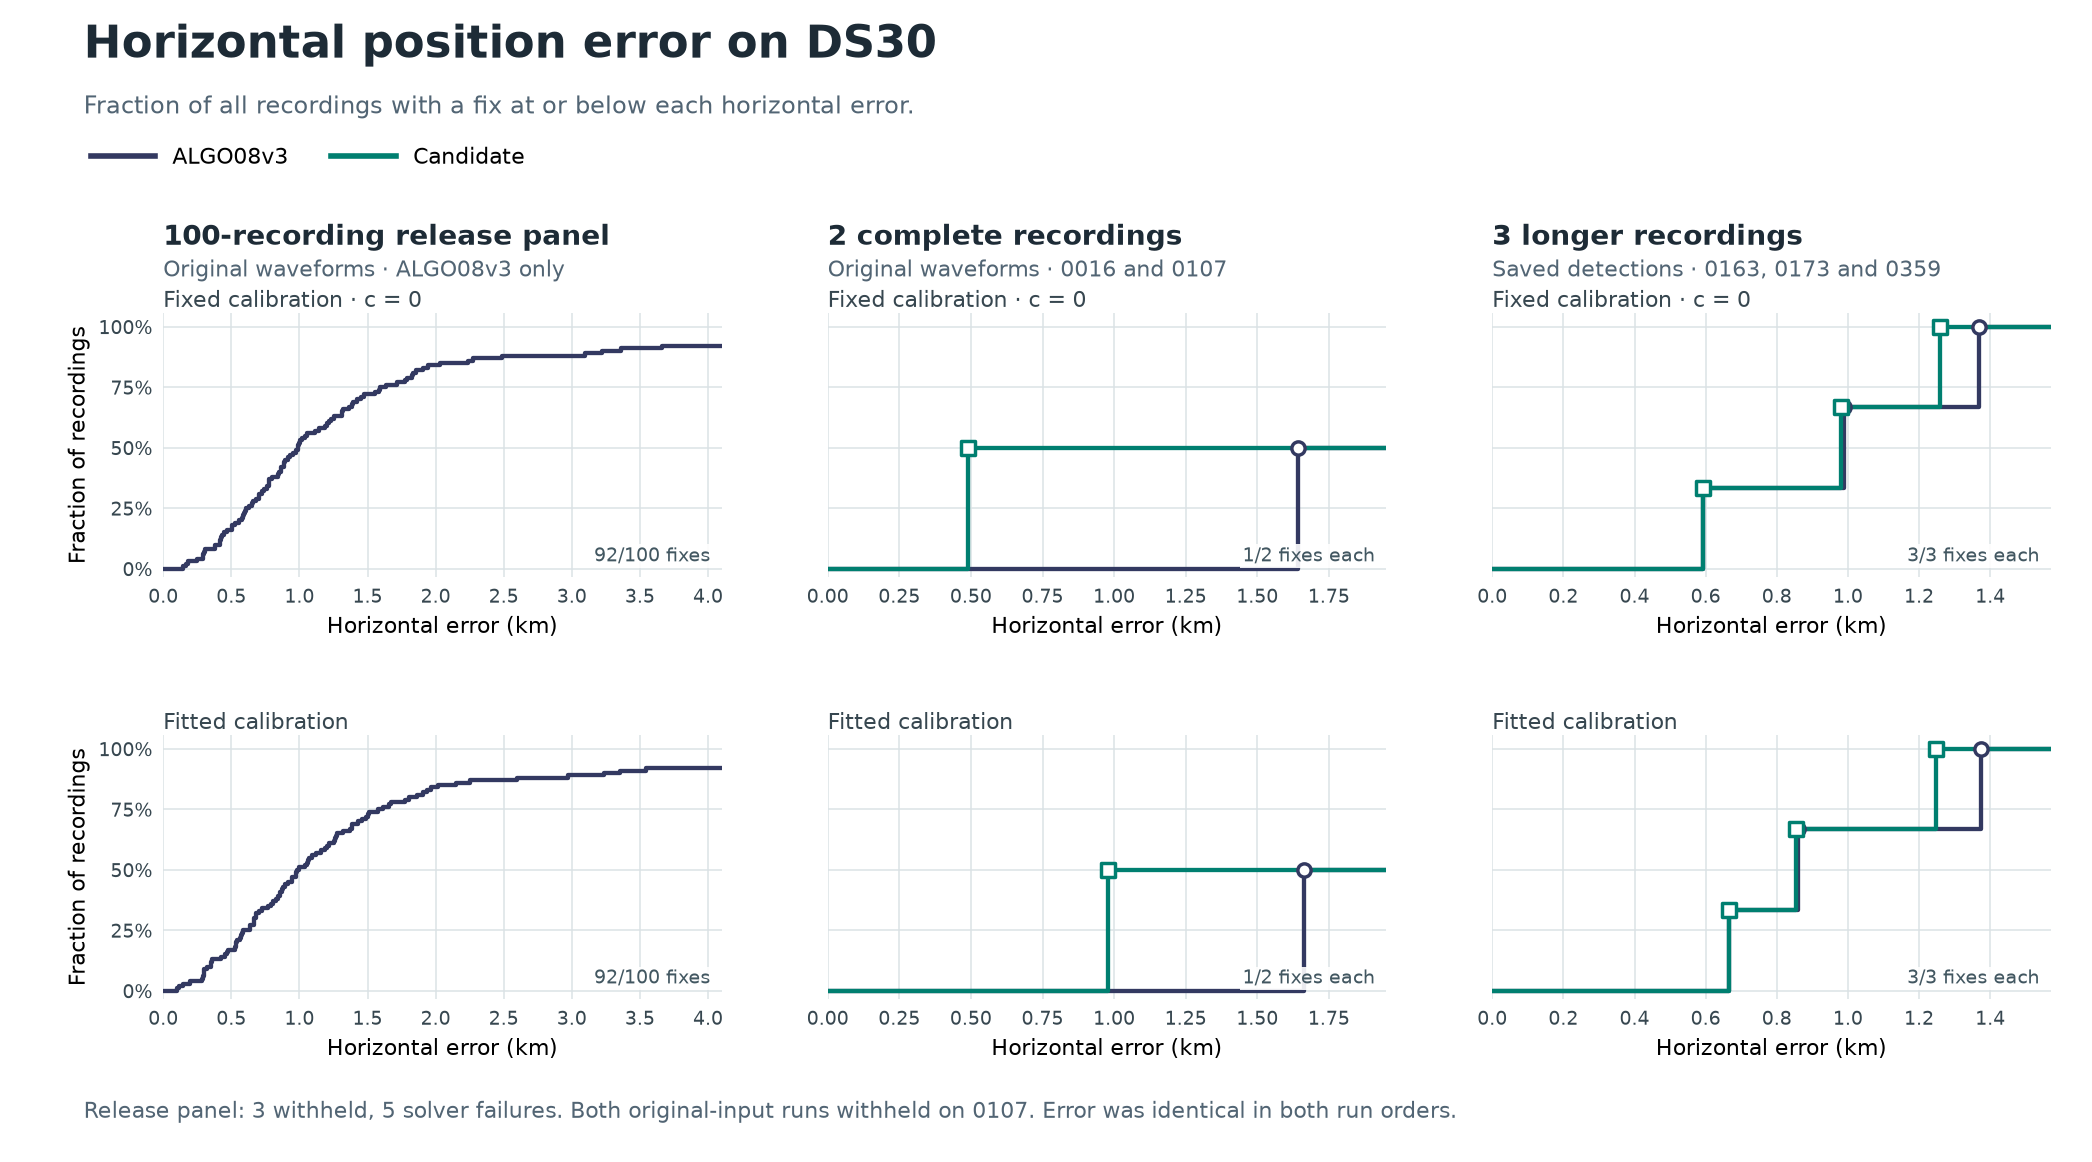
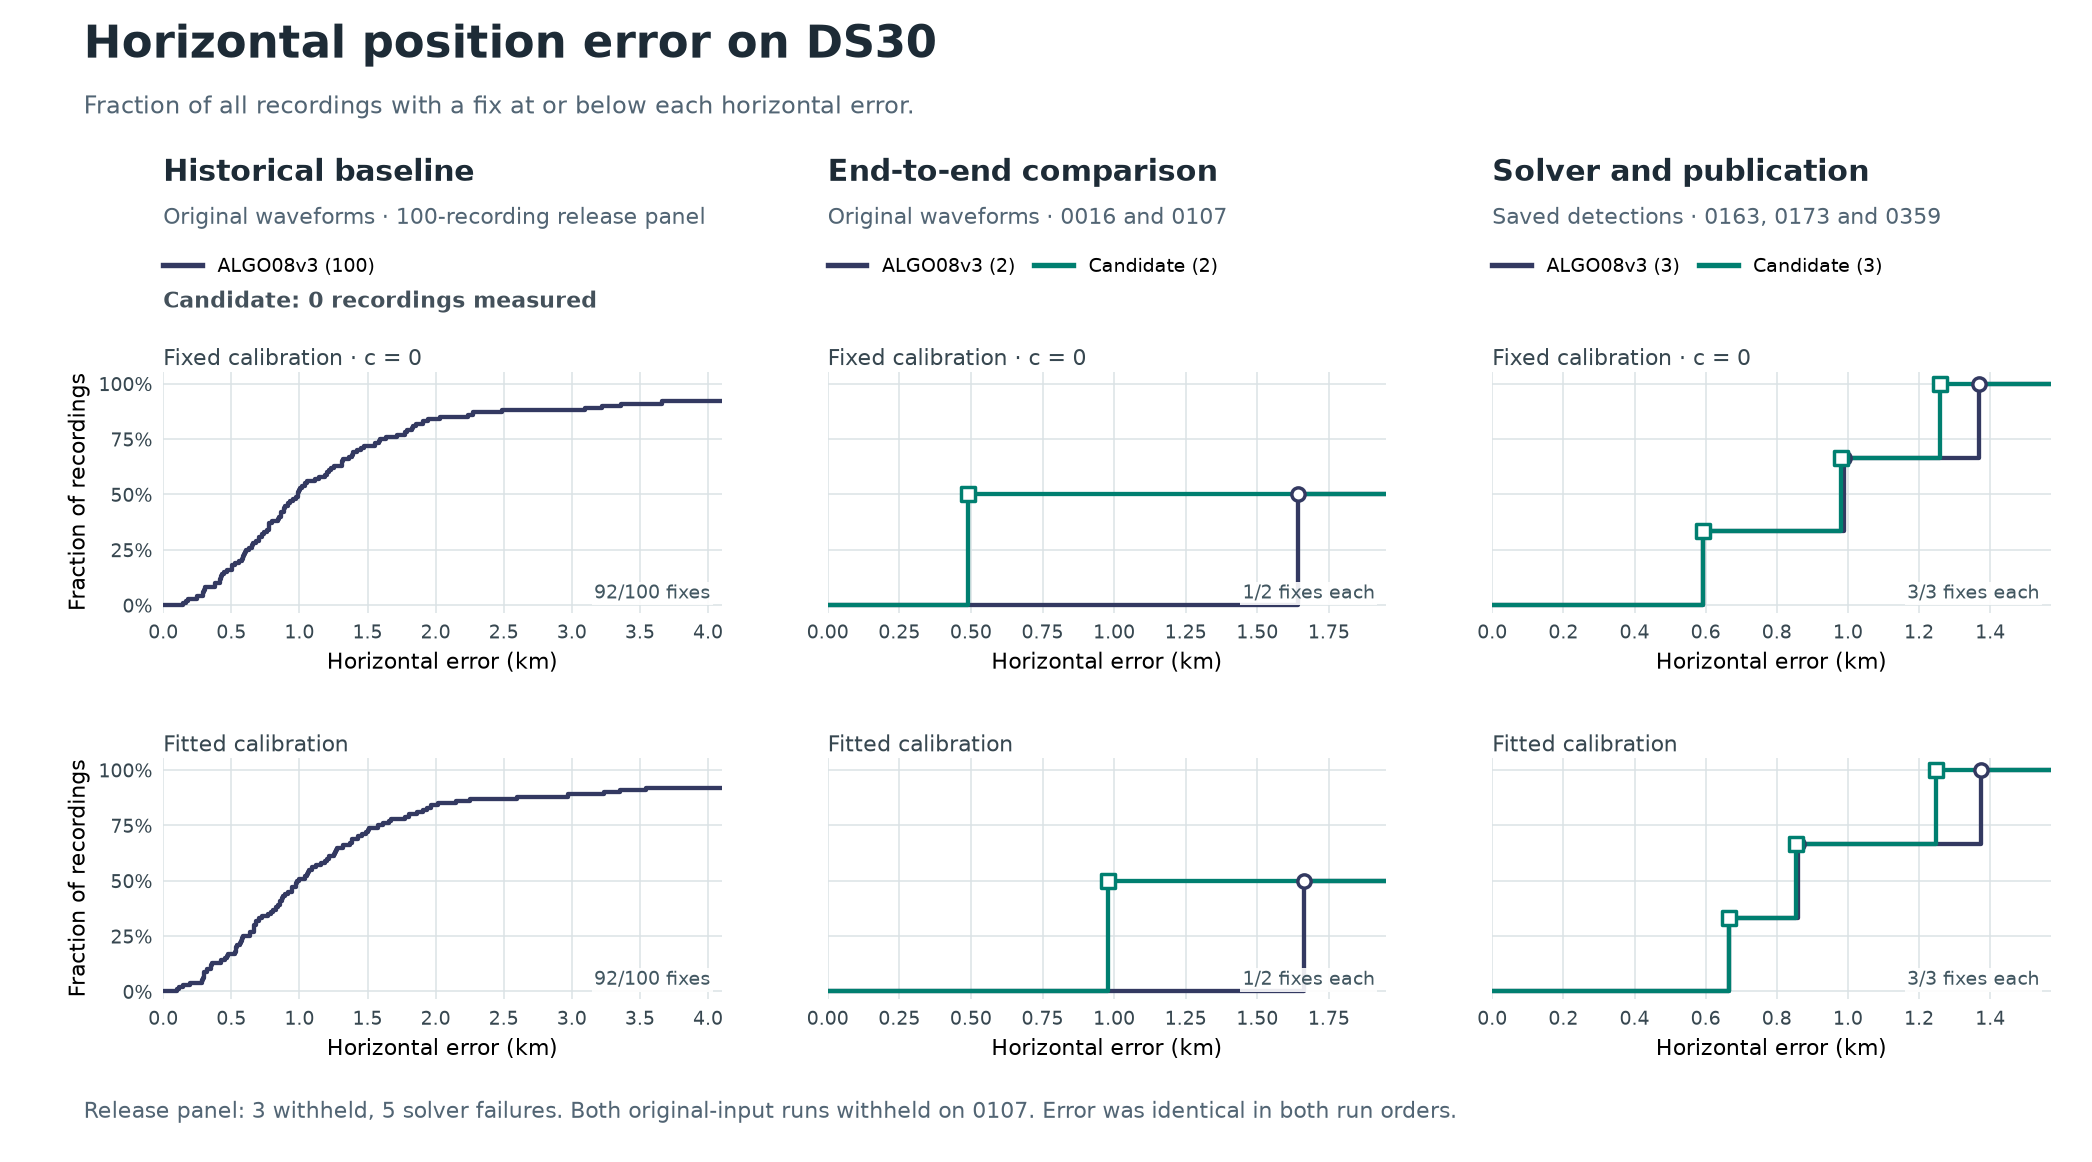
Label measured algorithms and sample counts per DS30 plot column

diff --git a/reports/ALGO08/v3/ds30-successor-distributions/plot.py b/reports/ALGO08/v3/ds30-successor-distributions/plot.py
@@ -15,9 +15,9 @@ import numpy as np
 ROOT = Path(__file__).resolve().parent
 STOCK, CANDIDATE, REVERSE = "#333961", "#007f70", "#b25b22"
 SCOPES = [
-    ("release_100", "100-recording release panel", "Original waveforms · ALGO08v3 only"),
-    ("matched_original", "2 complete recordings", "Original waveforms · 0016 and 0107"),
-    ("matched_saved", "3 longer recordings", "Saved detections · 0163, 0173 and 0359"),
+    ("release_100", "Historical baseline", "Original waveforms · 100-recording release panel"),
+    ("matched_original", "End-to-end comparison", "Original waveforms · 0016 and 0107"),
+    ("matched_saved", "Solver and publication", "Saved detections · 0163, 0173 and 0359"),
 ]
 
 
@@ -57,23 +57,31 @@ def draw(rows, metric):
     subtitle = ("Fraction of all recordings with a fix at or below each horizontal error."
                 if error else "Fraction of all timed recordings finishing at or before each threshold.")
     fig, axes = plt.subplots(2, 3, figsize=(13.5, 7.5), sharey=True)
-    fig.subplots_adjust(left=0.078, right=0.98, top=0.73, bottom=0.14, hspace=0.60, wspace=0.19)
+    fig.subplots_adjust(left=0.078, right=0.98, top=0.68, bottom=0.14, hspace=0.60, wspace=0.19)
     fig.text(0.04, 0.95, title, fontsize=21, weight="bold", color="#1d2b36")
     fig.text(0.04, 0.902, subtitle, fontsize=11, color="#526574")
-    legend = [Line2D([], [], color=STOCK, lw=2.6, label="ALGO08v3"),
-              Line2D([], [], color=CANDIDATE, lw=2.6, label="Candidate")]
-    if not error:
-        legend.append(Line2D([], [], color=REVERSE, ls="--", lw=2.4,
-                             label="Candidate, reversed run order (2 originals)"))
-    fig.legend(handles=legend, ncol=len(legend), loc="upper left", bbox_to_anchor=(0.034, 0.89),
-               frameon=False, handlelength=3)
     for col, (scope, heading, subheading) in enumerate(SCOPES):
         series_data = list(series(rows, scope, error))
         limit = ([4.1, 1.95, 1.57] if error else [195, 12.25, 33])[col]
-        axes[0, col].text(0, 1.26, heading, transform=axes[0, col].transAxes,
-                          weight="bold", fontsize=13, color="#1d2b36")
-        axes[0, col].text(0, 1.14, subheading, transform=axes[0, col].transAxes,
-                          fontsize=10, color="#526574")
+        left = axes[0, col].get_position().x0
+        fig.text(left, .844, heading, weight="bold", fontsize=14, color="#1d2b36")
+        fig.text(left, .807, subheading, fontsize=10, color="#526574")
+        handles = []
+        for runs, color, style, marker, label in series_data:
+            if label == "Withhold first":
+                continue
+            name = "Candidate" if label == "Fix first" else label
+            handles.append(Line2D([], [], color=color, ls=style, lw=2.5,
+                                  label=f"{name} ({len(runs)})"))
+        fig.legend(handles=handles, ncol=len(handles), loc="center left",
+                   bbox_to_anchor=(left, .77), frameon=False, handlelength=2,
+                   borderaxespad=0, borderpad=0, columnspacing=1, fontsize=9)
+        if len(series_data) == 1:
+            fig.text(left, .735, "Candidate: 0 recordings measured", fontsize=10, weight="bold", color="#44515b")
+        elif scope == "matched_original" and not error:
+            reverse = Line2D([], [], color=REVERSE, ls="--", lw=2.4, label="Candidate, reversed run order (2)")
+            fig.legend(handles=[reverse], loc="center left", bbox_to_anchor=(left, .742), frameon=False,
+                       handlelength=2, borderaxespad=0, borderpad=0, fontsize=9)
         for row, (field, label) in enumerate(zip(fields, labels)):
             ax = axes[row, col]
             for runs, color, style, marker, _ in series_data:
